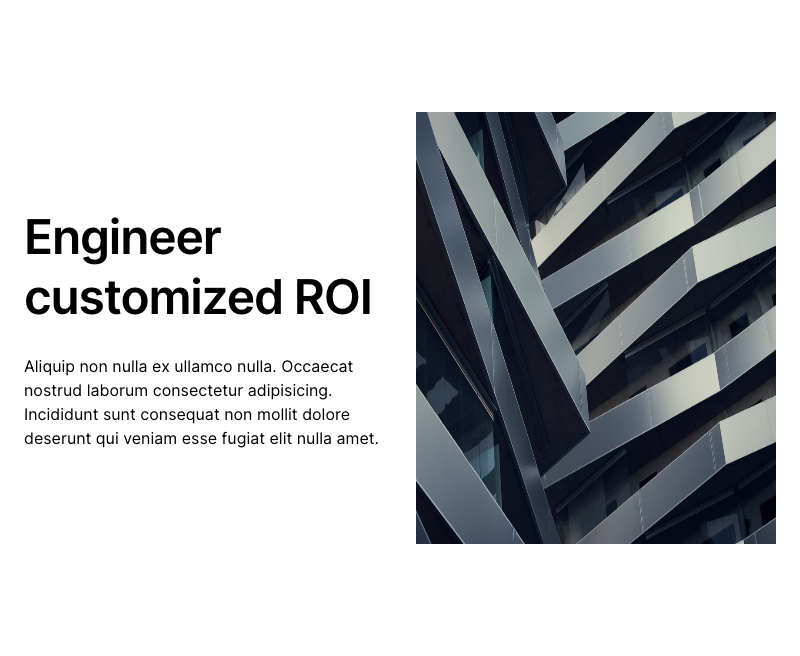
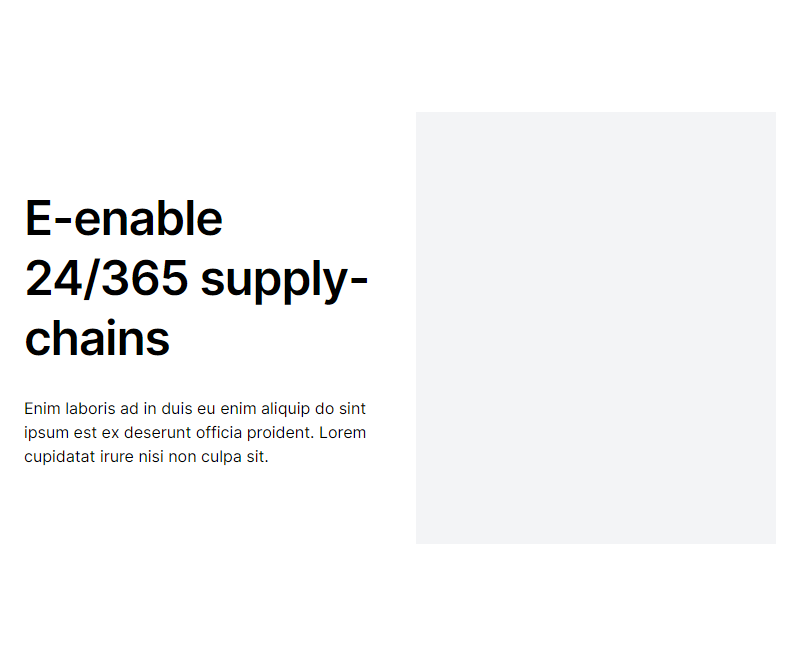
feat: add left image with text

diff --git a/.slicemachine/assets/slices/TextWithImage/index.stories.js b/.slicemachine/assets/slices/TextWithImage/index.stories.js
@@ -5,8 +5,11 @@ export default {
 }
 
 
-export const _Default = () => <MyComponent slice={{"variation":"default","name":"Default","slice_type":"text_with_image","items":[],"primary":{"text":[{"type":"heading1","text":"Engineer customized ROI","spans":[]},{"type":"paragraph","text":"Aliquip non nulla ex ullamco nulla. Occaecat nostrud laborum consectetur adipisicing. Incididunt sunt consequat non mollit dolore deserunt qui veniam esse fugiat elit nulla amet.","spans":[]}],"image":{"dimensions":{"width":1000,"height":1200},"alt":"Placeholder image","copyright":null,"url":"https://images.prismic.io/nextjs-starter-prismic-multi-page/fcb2333d-d2b2-4cdc-acdd-f9558703472d_anders-jilden-Sc5RKXLBjGg-unsplash.jpg?w=1000&h=1200&fit=crop"}},"id":"_Default"}} />
+export const _Default = () => <MyComponent slice={{"variation":"default","name":"Default","slice_type":"text_with_image","items":[],"primary":{"text":[{"type":"heading1","text":"E-enable 24/365 supply-chains","spans":[]},{"type":"paragraph","text":"Enim laboris ad in duis eu enim aliquip do sint ipsum est ex deserunt officia proident. Lorem cupidatat irure nisi non culpa sit.","spans":[]}],"image":{"dimensions":{"width":1000,"height":1200},"alt":"Placeholder image","copyright":null,"url":"https://images.prismic.io/nextjs-starter-prismic-multi-page/fcb2333d-d2b2-4cdc-acdd-f9558703472d_anders-jilden-Sc5RKXLBjGg-unsplash.jpg?w=1000&h=1200&fit=crop"}},"id":"_Default"}} />
 _Default.storyName = 'Default'
 
-export const _WithButton = () => <MyComponent slice={{"variation":"withButton","name":"With Button","slice_type":"text_with_image","items":[],"primary":{"text":[{"type":"paragraph","text":"Voluptate dolore ea et. Officia pariatur velit veniam velit cillum deserunt sit anim quis officia eiusmod. Eiusmod ipsum aute exercitation consectetur incididunt aliquip in elit esse do mollit velit duis.","spans":[]}],"buttonLink":{"link_type":"Web","url":"http://google.com"},"buttonText":"synthesize cutting-edge synergies","image":{"dimensions":{"width":900,"height":500},"alt":"Placeholder image","copyright":null,"url":"https://images.unsplash.com/photo-1547082299-de196ea013d6?w=900&h=500&fit=crop"}},"id":"_WithButton"}} />
+export const _WithButton = () => <MyComponent slice={{"variation":"withButton","name":"With Button","slice_type":"text_with_image","items":[],"primary":{"text":[{"type":"paragraph","text":"Lorem incididunt consectetur esse tempor voluptate proident anim. Quis consectetur anim eu voluptate.","spans":[]}],"buttonLink":{"link_type":"Web","url":"https://slicemachine.dev"},"buttonText":"unleash web-enabled technologies","image":{"dimensions":{"width":900,"height":500},"alt":"Placeholder image","copyright":null,"url":"https://images.unsplash.com/photo-1607582278038-6bebbd4d7b72?w=900&h=500&fit=crop"}},"id":"_WithButton"}} />
 _WithButton.storyName = 'With Button'
+
+export const _LeftWithImage = () => <MyComponent slice={{"variation":"leftWithImage","name":"LeftWithImage","slice_type":"text_with_image","items":[],"primary":{"text":[{"type":"paragraph","text":"Amet voluptate proident non anim veniam incididunt cupidatat exercitation duis adipisicing culpa incididunt. Et amet aliqua non voluptate ullamco occaecat veniam reprehenderit id adipisicing cupidatat. Voluptate proident exercitation ullamco nisi mollit.","spans":[]}],"image":{"dimensions":{"width":1000,"height":1200},"alt":"Placeholder image","copyright":null,"url":"https://images.unsplash.com/photo-1593642532973-d31b6557fa68?w=1000&h=1200&fit=crop"}},"id":"_LeftWithImage"}} />
+_LeftWithImage.storyName = 'LeftWithImage'

diff --git a/slices/TextWithImage/index.js b/slices/TextWithImage/index.js
@@ -1,28 +1,43 @@
-import * as prismicH from "@prismicio/helpers";
-import { PrismicRichText } from "@prismicio/react";
-import { PrismicNextImage } from "@prismicio/next";
+import * as prismicH from '@prismicio/helpers'
+import { PrismicRichText } from '@prismicio/react'
+import { PrismicNextImage } from '@prismicio/next'
 
-import { Bounded } from "../../components/Bounded";
+import { Bounded } from '../../components/Bounded'
 
 const TextWithImage = ({ slice }) => {
-  const image = slice.primary.image;
-
-  return (
-    <Bounded as="section" className="bg-white">
-      <div className="grid grid-cols-1 items-center gap-8 md:grid-cols-2">
+  const image = slice.primary.image
+  console.log(slice)
+  return slice.variation === 'leftImage' ? (
+    <Bounded as='section' className='bg-white'>
+      <div className='grid grid-cols-1 items-center gap-8 md:grid-cols-2'>
+        <div>
+          {prismicH.isFilled.image(image) && (
+            <div className='bg-gray-100'>
+              <PrismicNextImage field={image} layout='responsive' />
+            </div>
+          )}
+        </div>
+        <div>
+          <PrismicRichText field={slice.primary.text} />
+        </div>
+      </div>
+    </Bounded>
+  ) : (
+    <Bounded as='section' className='bg-white'>
+      <div className='grid grid-cols-1 items-center gap-8 md:grid-cols-2'>
         <div>
           <PrismicRichText field={slice.primary.text} />
         </div>
         <div>
           {prismicH.isFilled.image(image) && (
-            <div className="bg-gray-100">
-              <PrismicNextImage field={image} layout="responsive" />
+            <div className='bg-gray-100'>
+              <PrismicNextImage field={image} layout='responsive' />
             </div>
           )}
         </div>
       </div>
     </Bounded>
-  );
-};
+  )
+}
 
-export default TextWithImage;
+export default TextWithImage
